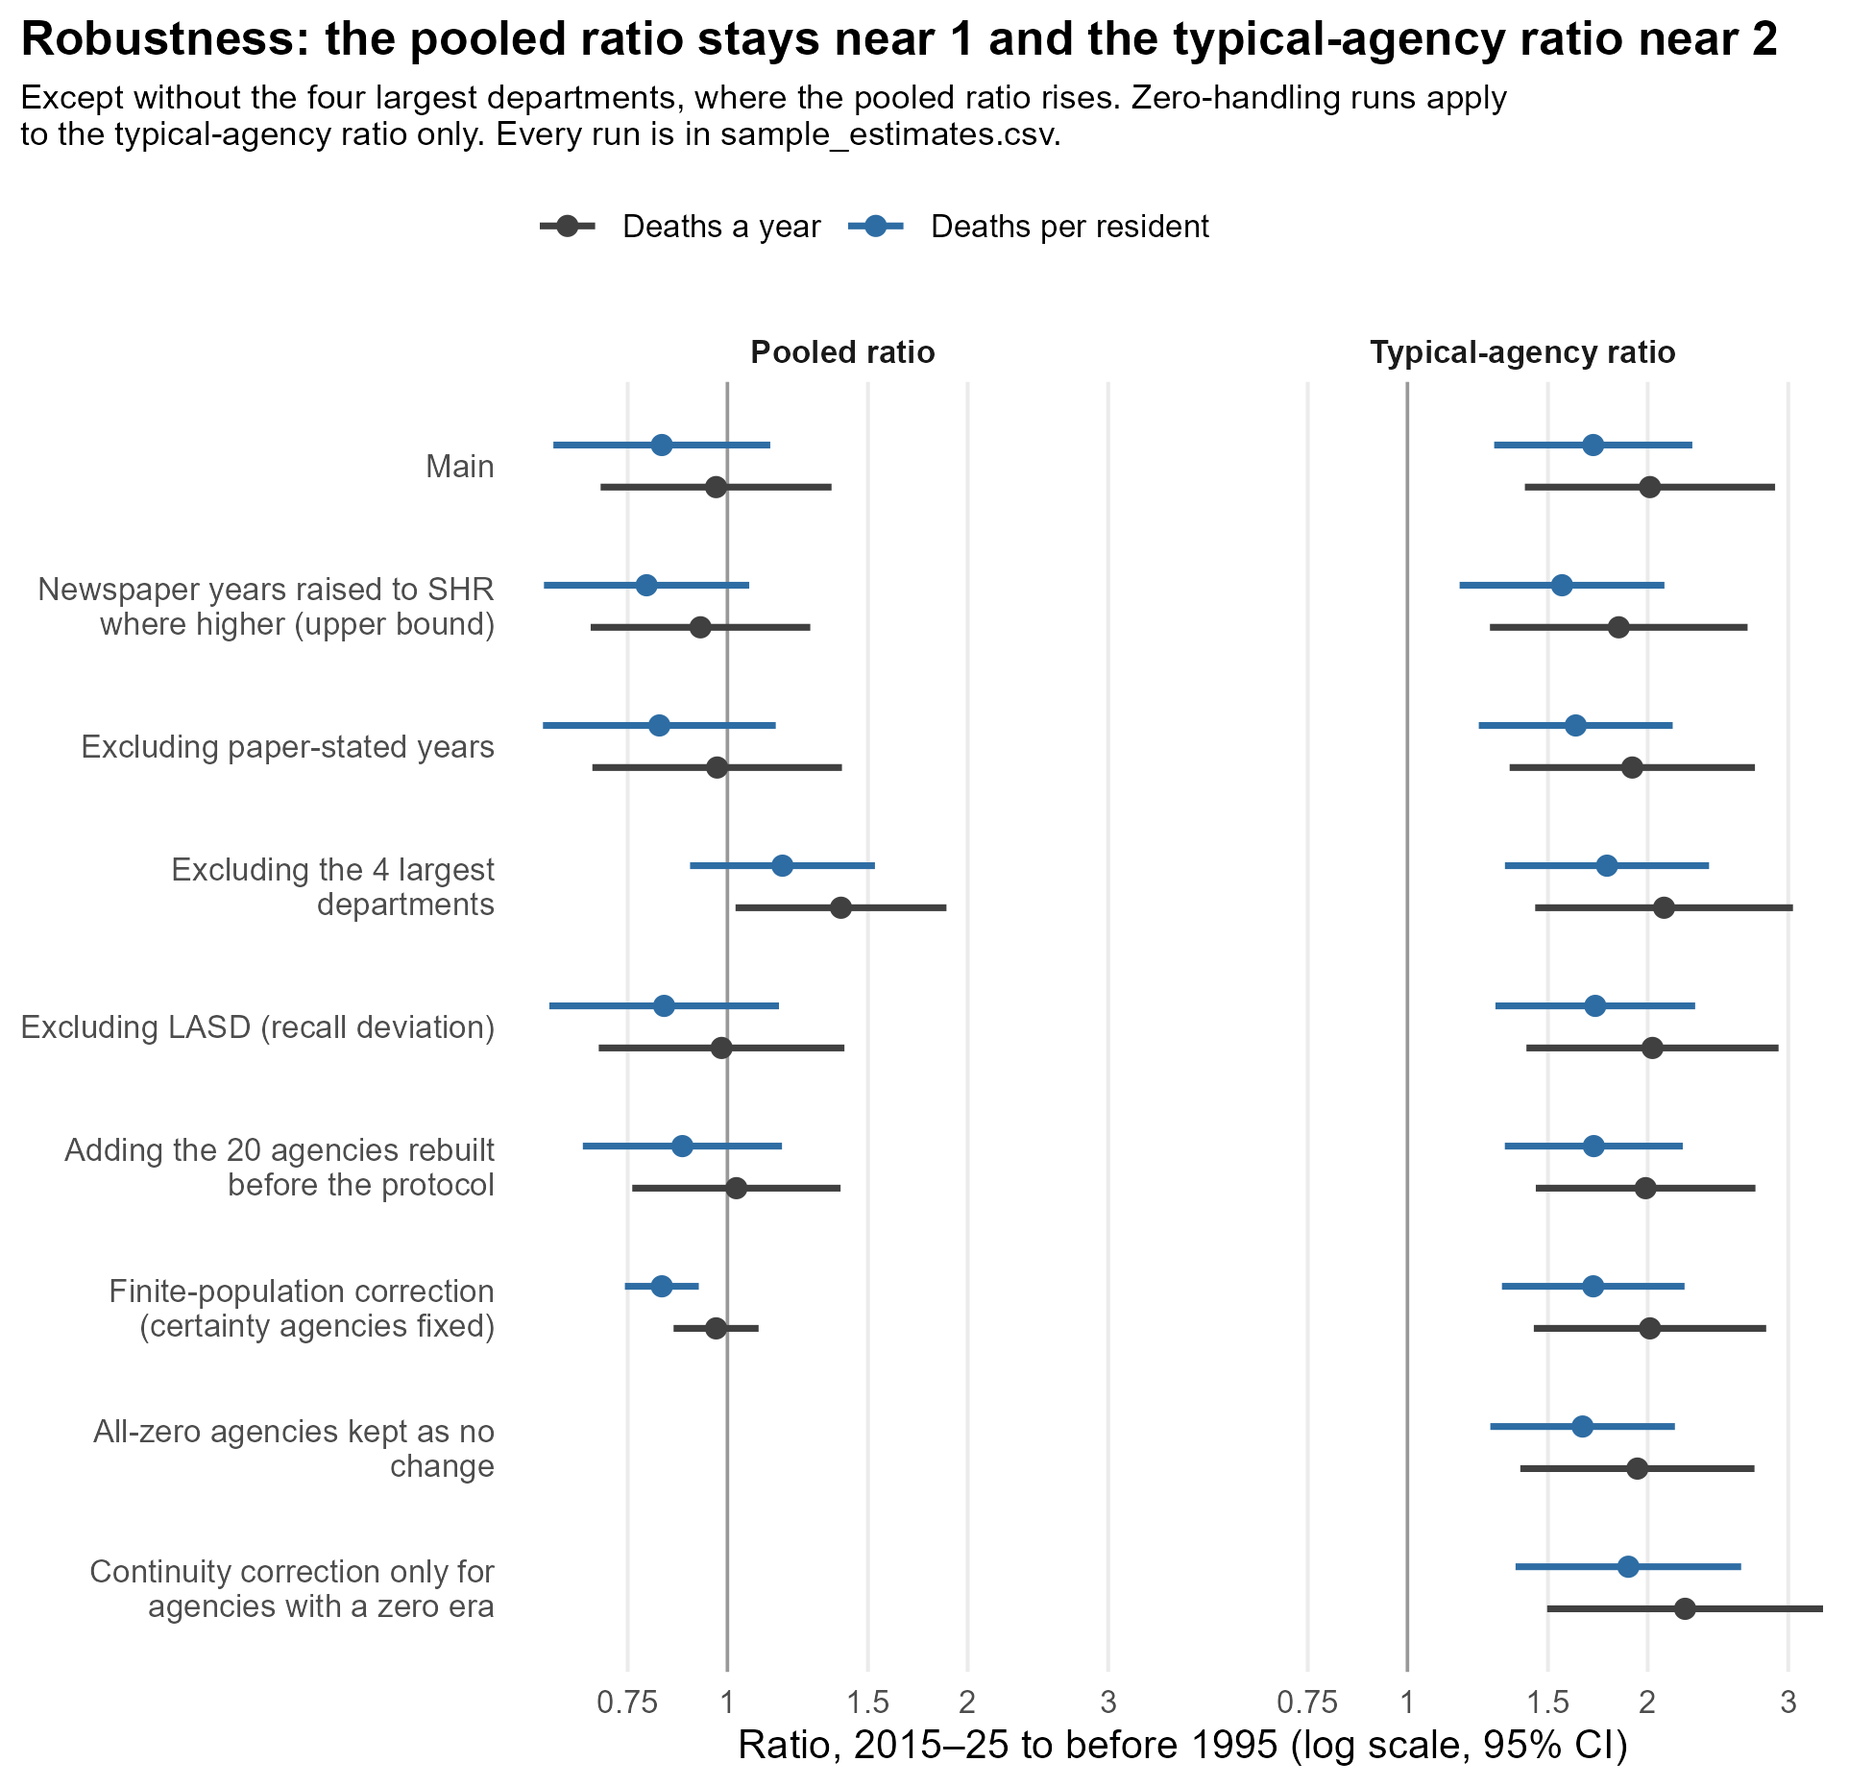
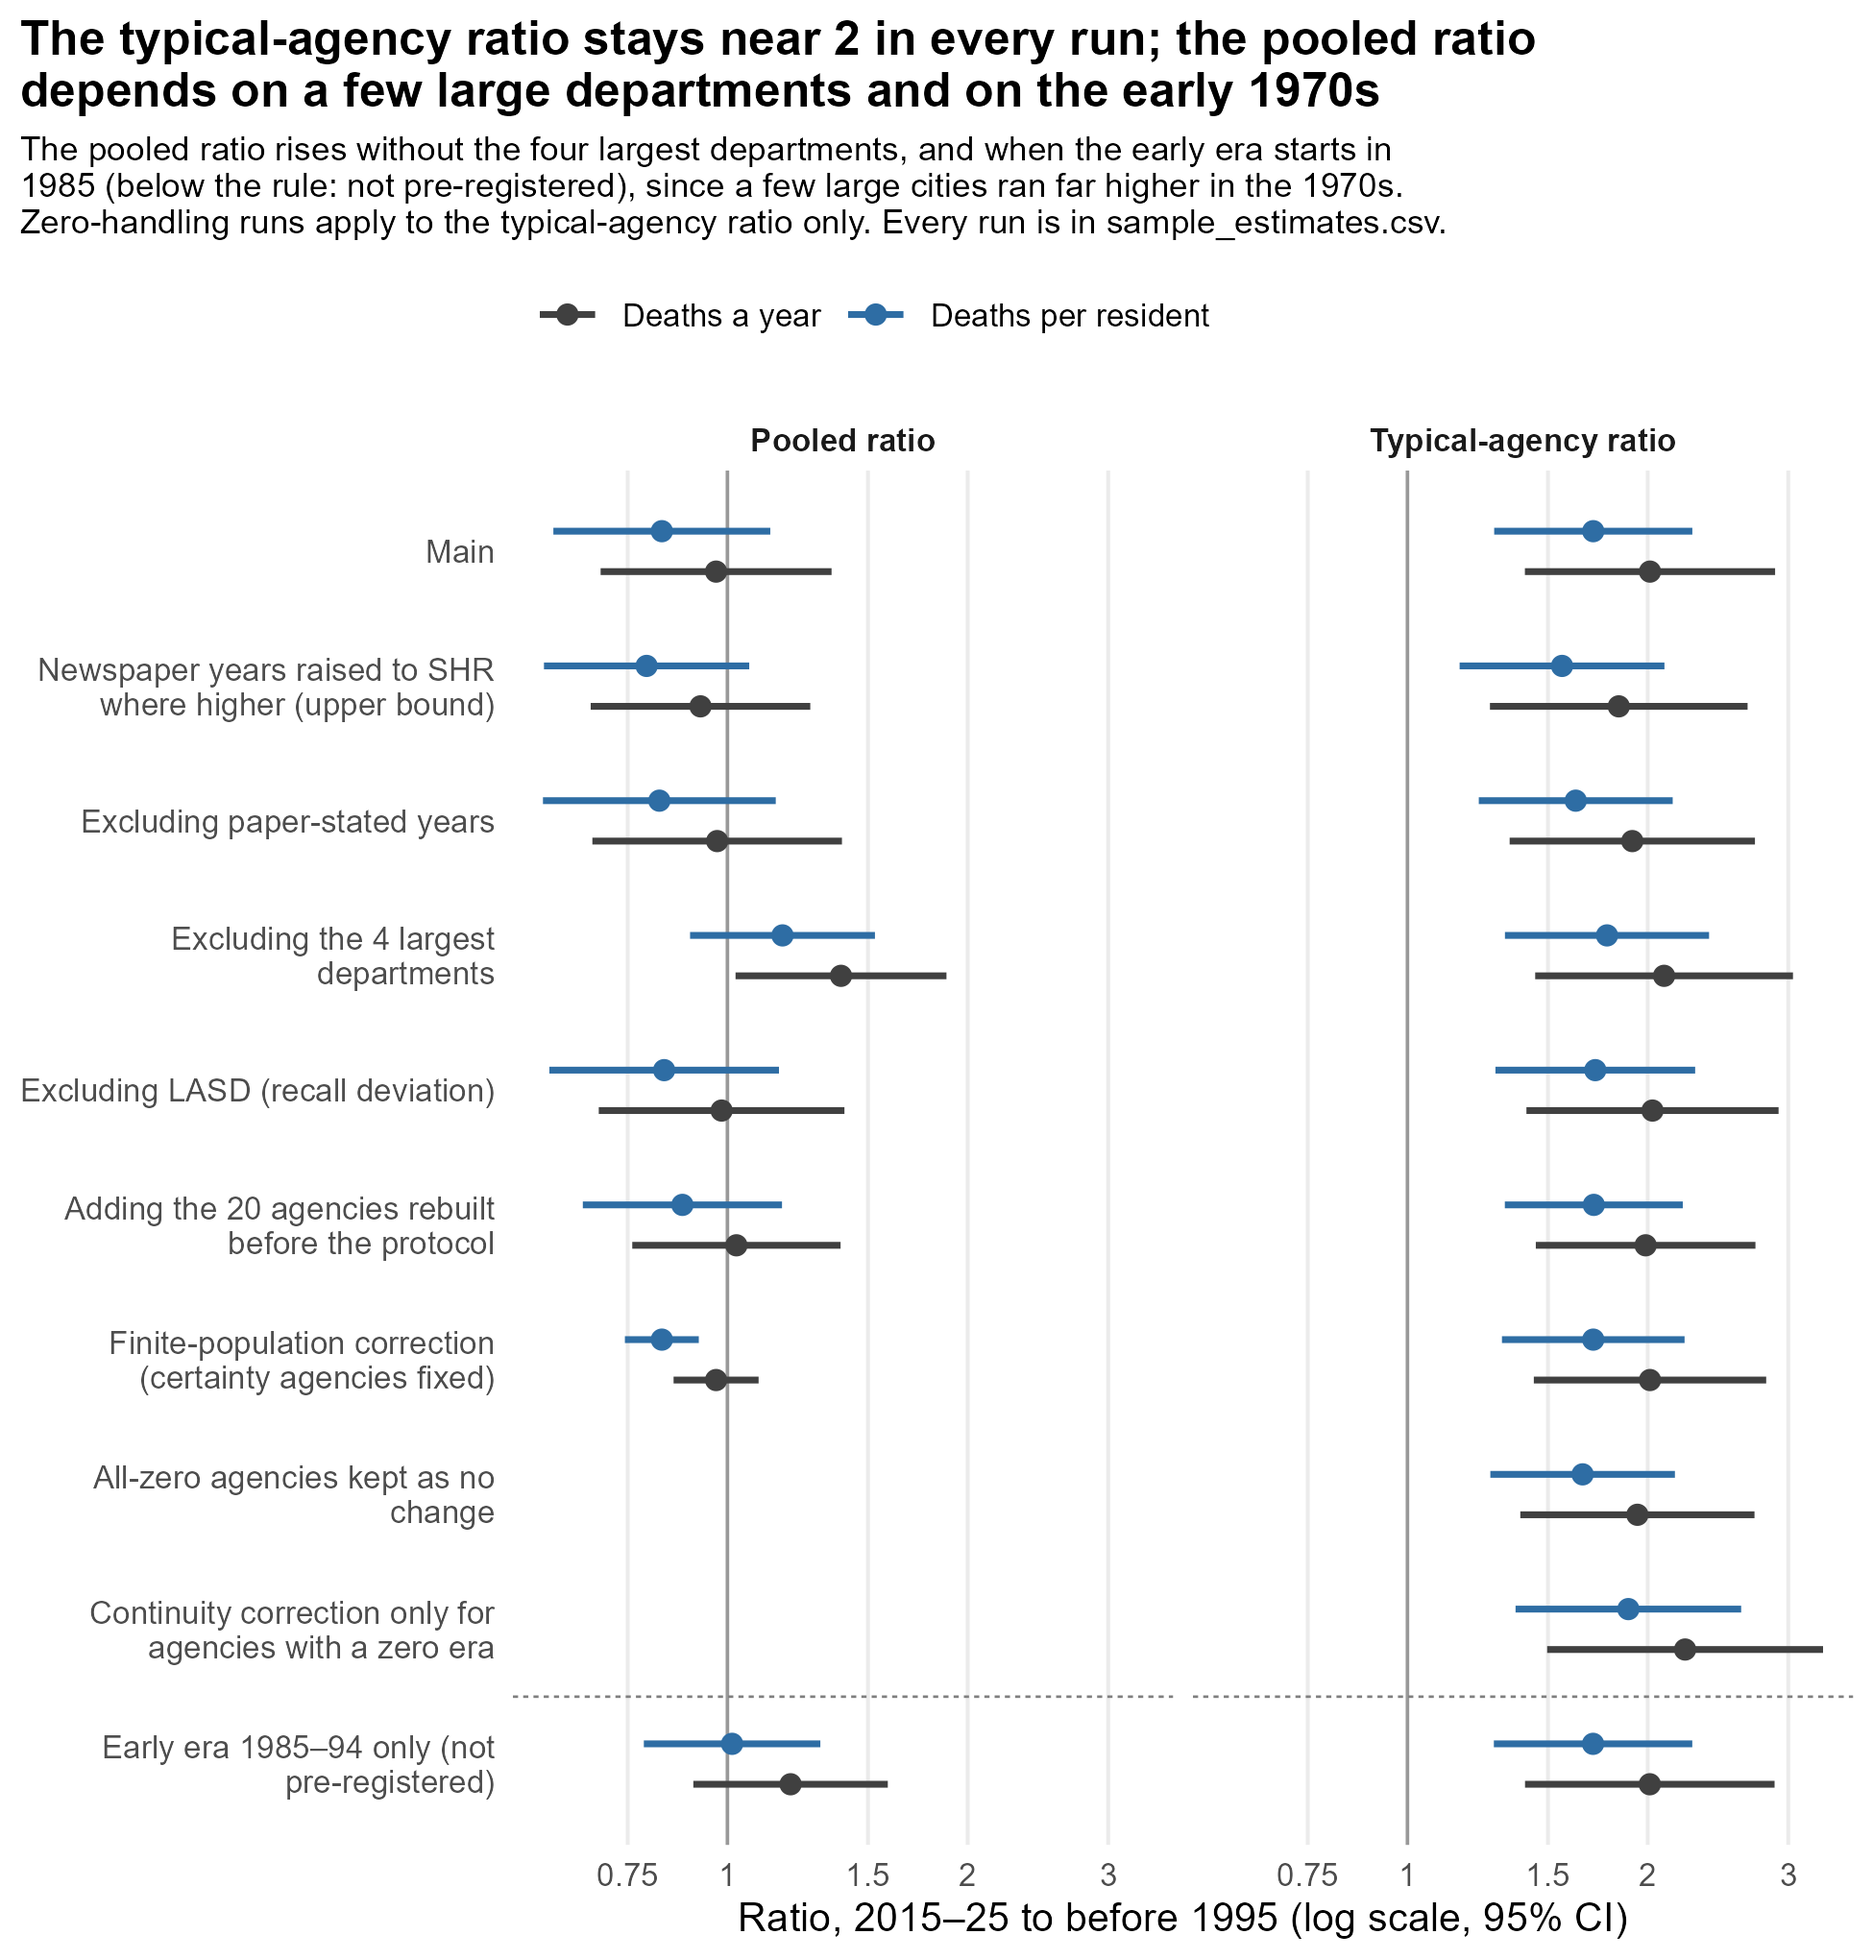
Add a non-pre-registered check: early era cut to 1985-94
The protocol's early era reaches back to 1970 where an existing series does,
and a few large cities ran far higher in the early 1970s. Cutting the early era
to 1985-94 (all 54 agencies still enter):
- pooled ratio: 1.20 (0.91-1.59) in counts, 1.01 (0.79-1.31) in rates;
- typical-agency ratio: unchanged at 2.01.

The run is added to sample_estimates.csv and set apart in Fig A1. The README
reports it as not pre-registered.

diff --git a/README.md b/README.md
@@ -62,6 +62,12 @@ The 11 certainty agencies with no usable archive are listed with their SHR, Fata
 
 All of these runs, the rate versions, and the zero-handling and finite-population alternatives are in [`sample_estimates.csv`](output/tables/sample_estimates.csv). Treating the certainty agencies as fixed rather than as random draws narrows the pooled interval to 0.86–1.09 (counts) and 0.74–0.92 (rates).
 
+**One check that was not pre-registered: when the early era starts.** The protocol's early era runs from 1970, wherever an existing series reaches that far. Only a few large cities do, and they killed far more people in the early 1970s than later (Figure 5). This check was added after the results were in: cut the early era to 1985–94, the years nearly every sampled agency has. All 54 agencies still enter.
+- The pooled ratio rises to 1.20 (0.91–1.59) in counts, and to 1.01 (0.79–1.31) in rates.
+- The typical-agency ratio does not move: 2.01 (1.40–2.88).
+
+So against the late 1980s and early 1990s, the pooled count is somewhat higher now, not level. The pre-registered estimate of about no change rests partly on the early 1970s in a handful of cities.
+
 ![Every robustness run](output/figures/figA1_robustness.png)
 
 **How much the SHR misses (RQ3).** In the agency-years where both exist, the SHR records 94% of the deaths counted here before 1995 (2,057 of 2,196), but only 56% since 2015 (760 of 1,358). Limited to the 51 agencies with SHR filings in both eras, the figures are 94% and 57%. The SHR's undercount grew, so any comparison of eras built on the SHR alone will overstate the decline.
